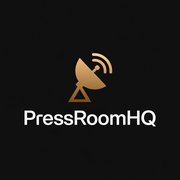
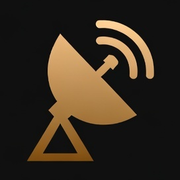
fix: JSON repair prose fallback + misc cleanup
- _extract_fields: add bare key: value prose pattern as last resort;
  now handles completely un-JSON output from Claude (all 5 test cases pass)
- fly.toml: region sea → sjc
- App.jsx: logo icon in header
- vite.config.js: host 0.0.0.0 + allowedHosts for network dev access
- Updated favicons + logo-icon-128.png

Changed region(s): [[0.1111, 0.1667, 0.8889, 0.9167], [0.5278, 0.1111, 0.8611, 0.4444]]

diff --git a/frontend/src/App.jsx b/frontend/src/App.jsx
@@ -654,6 +654,7 @@ export default function App() {
       {/* HEADER */}
       <div className="header">
         <div style={{ display: 'flex', alignItems: 'center', gap: 24 }}>
+          <img src="/logo-icon-128.png" alt="Pressroom HQ" style={{ height: 28, width: 28 }} />
           <div>
             <div className="header-title">Pressroom HQ</div>
             <div className="header-edition">

diff --git a/frontend/vite.config.js b/frontend/vite.config.js
@@ -5,6 +5,8 @@ export default defineConfig({
   plugins: [react()],
   server: {
     port: 3000,
+    host: '0.0.0.0',
+    allowedHosts: true,
     proxy: {
       '/api': 'http://localhost:8000',
     },

diff --git a/services/onboarding.py b/services/onboarding.py
@@ -107,6 +107,13 @@ def _extract_fields(text: str) -> dict | None:
         except Exception:
             pass
 
+    # Last-last resort: bare key: value prose (no quotes at all)
+    if not result:
+        for m in re.finditer(r'\b(company_name|persona|golden_anchor|tone|bio|audience|industry)\s*:\s*([^\n,]+)', text):
+            key, val = m.group(1), m.group(2).strip().strip('"\'')
+            if val:
+                result[key] = val
+
     return result if result else None
 
 

diff --git a/skills/taste.md b/skills/taste.md
@@ -8,56 +8,72 @@ Stops AI from generating boring, generic UI slop. When building or modifying fro
 
 ## Configuration Dials
 
-Pressroom defaults — adjust per request:
+Defaults — adjust per client brand:
 
 | Dial | Default | Range | Meaning |
 |------|---------|-------|---------|
-| DESIGN_VARIANCE | 2 | 1-10 | 1-3 = safe/centered, 8-10 = asymmetric/artistic |
-| MOTION_INTENSITY | 1 | 1-10 | 1-3 = static/subtle, 8-10 = cinematic physics |
-| VISUAL_DENSITY | 8 | 1-10 | 1-3 = luxurious/sparse, 8-10 = data-dense |
+| DESIGN_VARIANCE | 5 | 1-10 | 1-3 = safe/centered, 8-10 = asymmetric/artistic |
+| MOTION_INTENSITY | 3 | 1-10 | 1-3 = static/subtle, 8-10 = cinematic physics |
+| VISUAL_DENSITY | 5 | 1-10 | 1-3 = luxurious/sparse, 8-10 = data-dense |
 
-**Pressroom is a war room, not a landing page.** Density is high, motion is minimal, design is disciplined.
+These are neutral starting points. Each client's brand guide should override them.
+
+---
+
+## Brand Tokens (Client-Defined)
+
+Every project must define these before building UI. Do not fall back to generic values — ask for the client's brand if missing.
+
+| Token | Description | Example |
+|-------|-------------|---------|
+| `--color-primary` | Primary accent color | `#2563eb` (blue), `#ffb000` (amber) |
+| `--color-bg` | Background color | `#0a0a0a` (dark), `#fafafa` (light) |
+| `--color-text` | Primary text color | `#e5e5e5`, `#1a1a1a` |
+| `--color-muted` | Secondary/dim text | `#737373`, `#7a5a00` |
+| `--color-error` | Error state | muted red, not saturated |
+| `--color-success` | Success state | muted green, not saturated |
+| `--font-primary` | Primary typeface | `'Inter'`, `'IBM Plex Mono'` |
+| `--font-mono` | Monospace typeface | `'JetBrains Mono'`, `'IBM Plex Mono'` |
+| `--radius` | Border radius ceiling | `4px`, `8px`, `0` |
 
 ---
 
 ## Architecture Requirements
 
 - React with isolated Client Components for interactivity only
-- CSS modules or inline styles — NO Tailwind (Pressroom uses custom CSS)
 - Verify dependencies exist before importing — never assume
-- Zero emoji — use text labels only (this is a terminal aesthetic)
 - Mobile-safe: `min-h-[100dvh]` not `h-screen`
+- Respect the client's existing CSS approach (Tailwind, CSS modules, styled-components, etc.)
 
 ---
 
 ## Design Rules (Anti-Slop)
 
 **Typography:**
-- Pressroom font: IBM Plex Mono or monospace fallback — never change this
+- Use the client's brand font — never substitute with a generic or decorative font
 - Size hierarchy: clear distinction between label/value/heading
-- No decorative fonts
+- If no brand font is specified, ask — do not default to system-ui
 
 **Color:**
-- Amber on black is the law: `#ffb000` on `#0a0a0a`
-- Dim amber for secondary text: `#7a5a00` or similar
-- Red for errors/warnings, green for success — muted not saturated
-- Zero neon. Zero gradients. Zero glass morphism.
+- Use the client's brand tokens defined above
+- Red for errors, green for success — always muted, never saturated
+- Zero neon. Zero gradients. Zero glass morphism (unless the brand explicitly calls for it).
 
 **Layout:**
-- War room = dense, structured, grid-based
-- No hero sections, no full-bleed images, no centered marketing layouts
-- Information density over whitespace
+- Match the density dial to the client's product type (dashboards = dense, consumer = spacious)
 - Cards only when elevation is justified — prefer divider lines in dense views
+- Avoid defaulting to centered marketing layouts for product UI
+- Grid-based structure over freeform positioning
 
 **States:**
-- Loading: skeleton or dim text "LOADING..." — no spinners
+- Loading: skeleton or dim placeholder text — no animated spinners
 - Empty: actionable guidance text, not illustrations
-- Error: inline red text, specific message, never generic "Something went wrong"
+- Error: inline text near the source, specific message, never generic "Something went wrong"
 
 **Forms:**
 - Labels above inputs, always
 - Dim placeholder text showing example values
-- Errors below the field in red
+- Errors below the field in the error color
 
 ---
 
@@ -72,27 +88,28 @@ Pressroom defaults — adjust per request:
 ## The 100 AI Tells (Forbidden Patterns)
 
 Never generate:
-- Neon glows or bright gradients
-- Pure black (#000) — use #0a0a0a or #111
+- Neon glows or bright gradients (unless brand-specified)
+- Pure black (#000) — use #0a0a0a, #111, or the client's bg token
 - Oversaturated accent colors
-- "3-column card" default layouts
-- Generic names in examples ("John Doe", "Company Name")
-- Startup clichés: "Seamless", "Nexus", "Elevate", "Transform"
-- Centered hero with big button
-- Rounded corners > 8px on data components
+- "3-column card" default layouts — choose layout based on content, not habit
+- Generic names in examples ("John Doe", "Company Name") — use the client's domain
+- Startup clichés: "Seamless", "Nexus", "Elevate", "Transform", "Supercharge", "Unlock"
+- Centered hero with big button (for product UI — marketing pages may differ)
+- Rounded corners > the client's radius ceiling
 - Shadow-heavy card stacks
 - Animated loading spinners
+- Emoji as UI elements (unless the brand uses them intentionally)
 
 ---
 
 ## Pre-Flight Checklist
 
 Before returning any frontend code:
+- [ ] Brand tokens defined and applied (colors, fonts, radius)
 - [ ] Appropriate state management
 - [ ] Mobile layout handled
 - [ ] All interaction states complete (hover, focus, active, disabled)
 - [ ] No cards where spacing would suffice
 - [ ] CPU-heavy animations isolated
-- [ ] Colors match amber/dark scheme
-- [ ] No emoji
-- [ ] IBM Plex Mono or monospace preserved
+- [ ] Colors match client's brand scheme
+- [ ] Typography matches client's brand font
